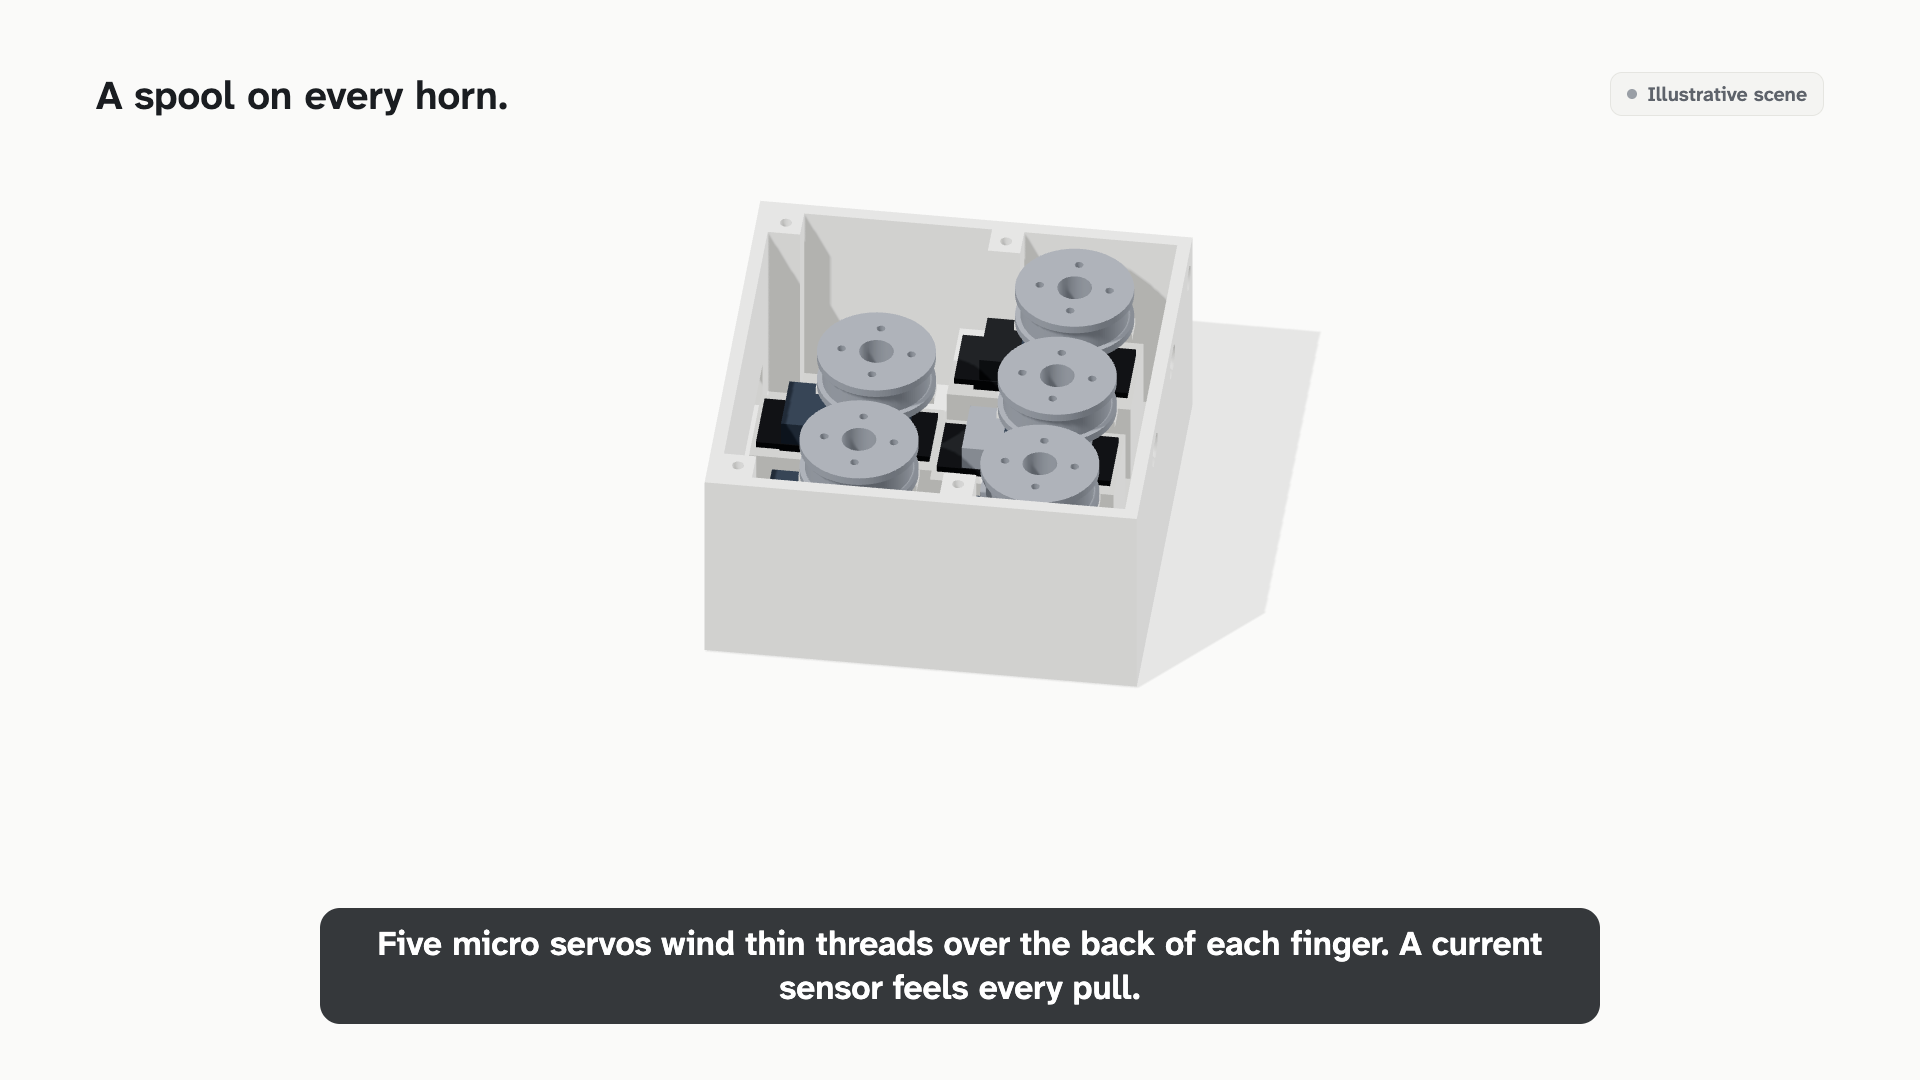
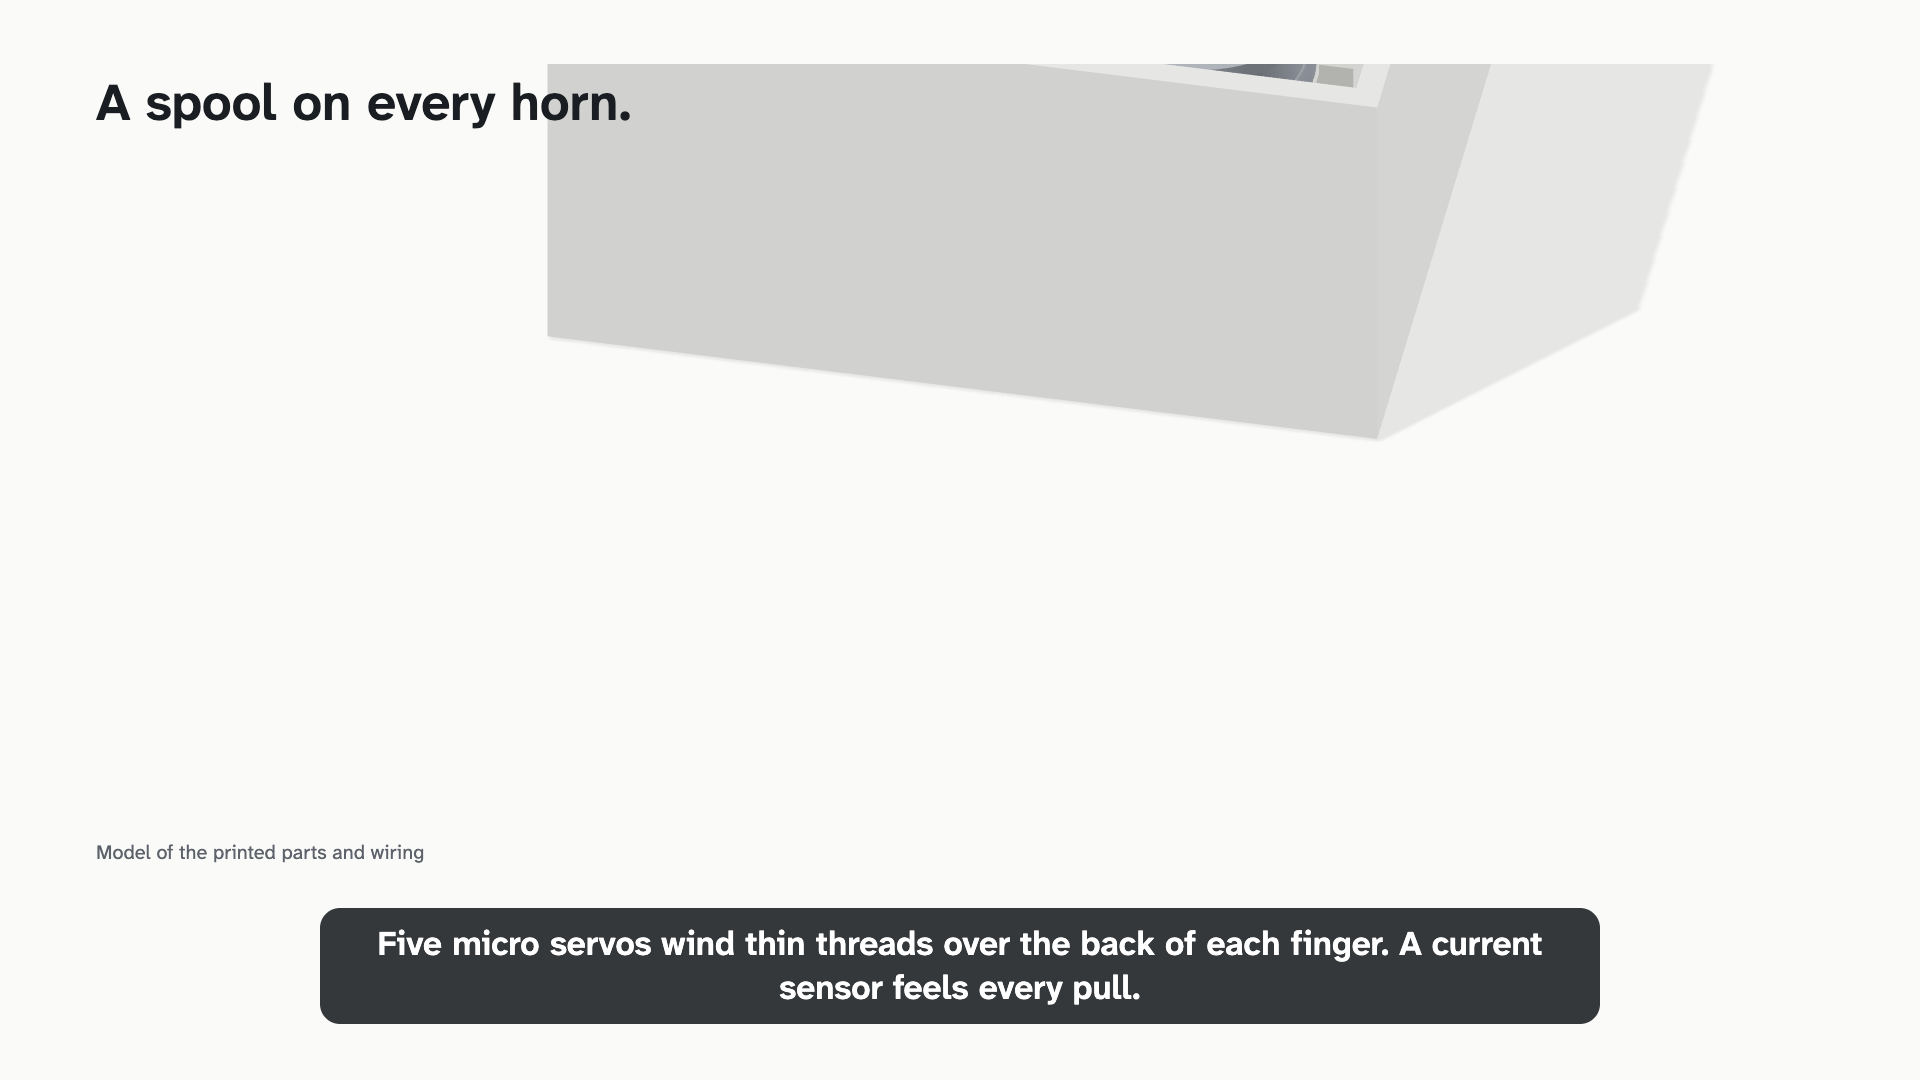
v4: refresh judging-cut evidence and final hand framing

Changed region(s): [[0.0312, 0.0611, 0.7812, 0.6417], [0.0625, 0.7639, 0.2188, 0.7944], [0.8438, 0.0611, 0.9375, 0.0917]]

diff --git a/video/studio/src/components/hardware/BuildAssembly.tsx b/video/studio/src/components/hardware/BuildAssembly.tsx
@@ -157,7 +157,7 @@ const buildView = (frame: number, width: number, height: number): View => {
   view = blendView(view, subjectView([electronicsBox], [25, 300, 330], 0.78, width, height), ramp(frame, 192, 12));
   view = blendView(view, subjectView([moduleBox, electronicsBox, harnessBox], [260, 240, 330], 0.82, width, height), ramp(frame, 216, 9));
   view = blendView(view, subjectView([lidBox], orbit, 0.52, width, height), ramp(frame, 234, 9));
-  return blendView(view, subjectView([lidBox, electronicsBox, harnessBox, handBox], [30, 210, 350], 0.82, width, height), ramp(frame, 248, 18));
+  return blendView(view, subjectView([lidBox, electronicsBox, harnessBox, handBox], [30, 120, 380], 0.92, width, height), ramp(frame, 248, 18));
 };
 
 const BuildCamera: React.FC<{ view: View }> = ({ view }) => {

diff --git a/video/studio/evidence/V4/README.md b/video/studio/evidence/V4/README.md
@@ -7,9 +7,9 @@ Run commands from `video/studio/`. The reusable `HardwareTurntable` and `Hardwar
 | `hardware-rest.png` | `hardware-motion` | 0 |
 | `hardware-exploded.png` | `hardware-single` | 0 |
 | `hardware-three-angles.png` | `hardware-angles` | 0 |
-| `system-strip.png` | `scene-underHood` | 90 |
-| `safety-layers.png` | `scene-underHood` | 228 |
-| `numbers.png` | `scene-underHood` | 360 |
+| `board-decides.png` | `scene-underHood` | 72 |
+| `safety-layers.png` | `scene-underHood` | 252 |
+| `numbers.png` | `scene-underHood` | 342 |
 | `build-module.png` | `scene-build` | 15 |
 | `build-servos.png` | `scene-build` | 106 |
 | `build-spools.png` | `scene-build` | 196 |
@@ -24,14 +24,16 @@ Hardware evidence uses a separate entry point:
 pnpm exec remotion still src/components/hardware/evidence.tsx hardware-angles evidence/V4/hardware-three-angles.png --frame=0 --gl=angle --timeout=120000
 pnpm exec remotion still src/components/hardware/evidence.tsx hardware-single evidence/V4/hardware-exploded.png --frame=0 --gl=angle
 pnpm exec remotion still src/components/hardware/evidence.tsx hardware-motion evidence/V4/hardware-rest.png --frame=0 --gl=angle
-pnpm exec remotion still scene-underHood evidence/V4/system-strip.png --frame=90
-pnpm exec remotion still scene-underHood evidence/V4/safety-layers.png --frame=228
-pnpm exec remotion still scene-underHood evidence/V4/numbers.png --frame=360
+pnpm exec remotion still scene-underHood evidence/V4/board-decides.png --frame=72
+pnpm exec remotion still scene-underHood evidence/V4/safety-layers.png --frame=252
+pnpm exec remotion still scene-underHood evidence/V4/numbers.png --frame=342
 ```
 
 Coordinator notes applied: factual UnderHood content has no illustrative badge; the module is open with its lid parked beside it so all five spools remain visible; fittings form one evenly spaced row; warm off-white uses `c.surface3`; key and rim lights separate the edges from paper. Small fittings use a uniform display scale of 0.45 for the knolling overview. Explosion raises the parked lid and spools along their vertical axes. The camera fits the current part bounds deterministically at each angle.
 
-Safety copy comes unchanged from `COPY.underHood`; balanced lines remove the orphaned release word. Number count-ups all settle at frame 360, a 72-frame bar boundary. The bottom 180 pixels remain clear of scene content while captions play.
+Safety copy comes unchanged from `COPY.underHood`; balanced lines remove the orphaned release word. UnderHood is now 360 frames: title at 0–108, four safety cards at 108/144/180/216, and numbers at 288–360. The numbers settle at f324 and hold through the cut. The system strip and its obsolete evidence image were removed; architecture belongs to the Gemini scene.
+
+The merged judging cut has 74 bars, 5328 frames and 177.6 seconds. All thirteen scene starts were checked against the owner's table; Build begins at 134.4 s and UnderHood at 148.8 s. The top 64 px are reserved for the criterion label and five dots. Build's model viewport runs from y64 to y824; its plain model label ends at y864, above the bottom 200 px reserved for captions. V4's visible strings contain no superseded device terminology.
 
 `Reveal.tsx` remains the V3-owned placeholder on this branch. Import `HardwareTurntable` from `src/components/hardware/Hardware` when integrating V3; the fixed props API is unchanged. The evidence sheets exercise both full-frame and embedded canvas sizes.
 
@@ -47,6 +49,8 @@ For the coordinator: use `--gl=angle` for the integrated Main render, or configu
 
 The 288-frame build scene uses the same STL cache, material palette and studio lights as the turntable. Servo bodies are 23×12×22 mm with mounting tabs, shafts and horns. ESP32 has 30 pin positions, a silver module can and USB socket; INA219 and the tactile stop button use neutral procedural geometry. There is no LED ring.
 
+Camera close-ups put the module at roughly half the frame width, enlarge the electronics for their arrival, and pull back for the completed module and hand to fill about 80% of the width. Step titles use h2 (52 px) and cut on their 18-frame beats. The badge is replaced by the plain caption-size label “Model of the printed parts and wiring.” The ghost hand has no fill and uses an unlit `c.target` outline with a 3 px screen-space diameter; lighting cannot wash it out.
+
 | Frames | Action |
 | --- | --- |
 | 0–15 | Module settles |
@@ -55,7 +59,7 @@ The 288-frame build scene uses the same STL cache, material palette and studio l
 | 198–218 | ESP32, INA219, stop button and separate servo rail arrive |
 | 216–233 | Brown, red and orange leads grow along CatmullRom tube paths |
 | 234–249 | Lid closes onto the module |
-| 240–252 | Outline-only ghost hand, dorsal guides and fingertip anchors appear |
+| 252–261 | Outline-only ghost hand, dorsal guides and fingertip anchors appear |
 | 252–275 | Five thin threads grow through the guides to their anchors |
 | 275–287 | Completed assembly holds |
 
@@ -70,4 +74,6 @@ node src/components/hardware/render-build.mjs --video-only  # out/v4-build.mp4, 
 
 Each build still can also be rendered with `pnpm exec remotion still scene-build evidence/V4/build-threads.png --frame=287 --gl=angle` using the table's frame values.
 
-Full montage verification: all **288 frames at 1920×1080, 30 fps** rendered with ANGLE, concurrency 1. The renderer call including canvas setup and encoding took **18.374 s**, or **63.8 ms/frame** (bundle excluded). All seven build stills were rendered separately as PNGs and visually reviewed. The full clip and beat-by-beat contact sheet are local QA outputs under ignored `out/`.
+Full montage verification: all **288 frames at 1920×1080, 30 fps** rendered with ANGLE, concurrency 1. All **360 UnderHood frames** also rendered successfully. All thirteen stills were refreshed against the merged owner copy and timeline. The full clips, beat-by-beat contact sheets and integrated Main stills with the judging chapter label are local QA outputs under ignored `out/`. Render timings are reported in the PR.
+
+Latest full Build render: **15.713 s / 288 = 54.6 ms/frame**, including renderer setup and encoding, excluding bundling. UnderHood's complete 360-frame render took **20.322 s** under the same ANGLE/concurrency-1 configuration. Both use 1920×1080 at 30 fps.
